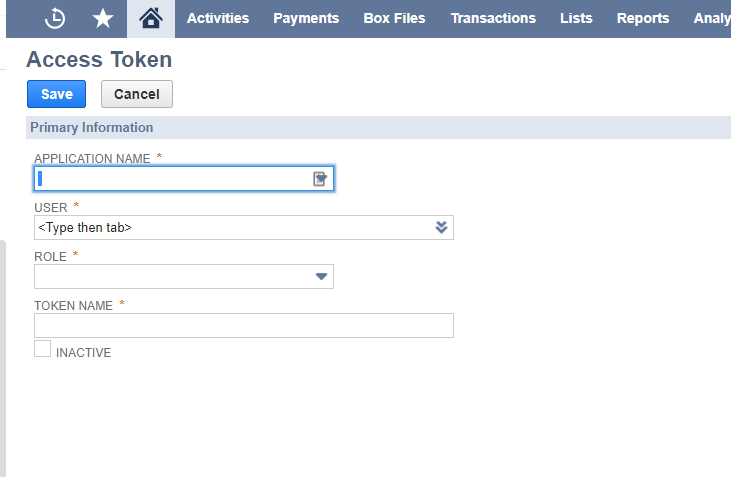
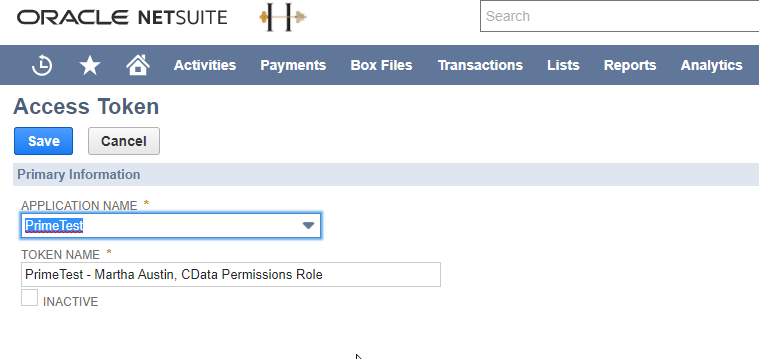
Major NS re-write

diff --git a/Datasources/additionalinfo/NetsuiteCreds.md b/Datasources/additionalinfo/NetsuiteCreds.md
@@ -9,40 +9,85 @@
 
 * **Account ID**
 * **Role ID**
+* **Application ID**
 * **Authorization Tokens**
 
 
-1. In NetSuite, log in as an administrator role and navigate to **Setup&rarr;Company&rarr;Company Information**. Save the Account ID to a .txt or other easy-to-find document.
+1. Sign onto NetSuite using a Administrator login.
+2. Navigate to **Setup&rarr;Company&rarr;Company Information**. 
+   1. Find the `Account ID` and copy/paste to a .txt or other easy-to-find document.
 
 ![account id](../../images/NetsuiteAccountId.png)
 
 2. Navigate to **Setup&rarr;Company&rarr;Enable Features&rarr;SuiteCloud&rarr;Manage Authentication**.
-3. Make sure Token-Based Authentication and TBA: Authorization Flow are checked and save changes.
+   1. Verify `Token-Based Authentication` and `TBA: Authorization Flow` are checked.
+   2. Save.
 ![Manage Authentication](../../images/NetsuiteManageAuthentication.png)
 
-4. Navigate to **Setup&rarr;Integration&rarr;Manage Integrations**.
-5. Create a new integration and select Token-Based Authentication. When the integration is created, the Consumer Key and Consumer Secret displayed will map directly to the OAuthClientId and OAuthClientSecret connection properties in RJWarehouse. Save the Application ID and the keys to the document where you saved the Account ID.
+3. Navigate to **Setup&rarr;Integration&rarr;Manage Integrations**.
+   1. Click New.
+   2. Name
+      1. Suggested: `RJ App ID` or something similar.
+   3. Concurrency Limit
+      1. Based on how many concurrent connections instance can maintain.
+      2. Default for Relational Junction is 1.
+      3. Please contact [support@sesamesoftware.com](support@sesamesoftware.com) if attempting to set-up a multi-user job which may affect concurrence.
+   4. Verify that `Token-Based Authentication` is checked.
+   5. Checking `User Credentials` is optional.
+   6. Un-check everything else.
+   7. Save.
+   8. On the next screen, the `Application ID`, `Consumer Key` and `Consumer Secret` will be displayed.
+      1. The `Consumer Key` and `Consumer Secret` map directly to the `OAuthClientId` and `OAuthClientSecret` connection properties in RJWarehouse. 
+   9. Save the `Application ID` and the keys to the document where you saved the `Account ID`.
 
 ![Manage Integrations](../../images/NetsuiteManageIntegrations.png)
 
-6. Create a token role by navigating to **Setup&rarr;User/Roles&rarr;Manage Roles** and either create a new role for RJWarehouse to use or edit an existing role with the required configuration and permissions
-   1. See [Role Creation, Modification and Setting Permissions](../../images/netsuitepermissions.md) for more information on the requirements for roles and permissions.
-   2. Add the Role ID to your document.
-7. Add the role to a user under **Lists&rarr;Employees&rarr;Employees**. Select to edit an employee and add the new token role under **Access &rarr; Roles**.
-   ![Manage Roles](../../images/NetsuiteManageRoles.png)
-8. Navigate to **Setup&rarr;User/Roles&rarr;Access Tokens** and create a new access token. Select the application name as the integration that was created earlier, and the same user and role that were updated in the previous steps.
-9.  After creating the access token, a Token Id and Token Secret will be displayed. These map directly to the OAuthAccessToken and OAuthAccessTokenSecret. Save these to the document.
+4. Navigate to **Setup&rarr;User/Roles&rarr;Manage Roles**. 
+   1. Create a new role or edit an existing role with the required configuration and permissions or RJWarehouse to use.
+      1. See [Role Creation, Modification and Setting Permissions](../../images/netsuitepermissions.md) for more information on the requirements for roles and permissions.
+   2. Locate the internal ID of the Role from the Manage Roles List display or the role itself.
+   3. Add the Role ID to your document.
+![Manage Roles](../../images/NetsuiteManageRoles.png)
+
+5. Navigate to **Setup&rarr;User/Roles&rarr;Manage Users**.
+   1. Locate a User Login which the role you edited/created in Step 4 can be assigned to.
+      1. This must be a login that can be accessed during this process.
+   2. Click the Name of the user whom you are assigning the role.
+![Manage users](../../images/NetsuiteManageusers.png)   
+
+   3. On the User screen, click Edit.
+   4. On the User navigation bar click Access.
+   5. Click the dropdown and select the role you edited/created in Step 4.
+![Manage Access](../../images/Netsuiteuseraccess.png)  
+
+   6. Click Add.
+   7. Click Save.
+   
+1. Log into the User whom you assigned the role you edited/created in Step 4.
+   1. Verify that you are logged into that role.
+      1. Check upper right hand corner, role will be listed.
+![Role](../../images/Netsuiterolefp.png)
+   2. Scroll to the bottom of the home screen and click `Manage Access Tokens` in your Settings Portlet.
+![Role](../../images/Netsuitesettingsportlet.png)
+   3. Click `New My Access Token`
+   4. In the Application Name dropdown, select the Application ID created in Step 3.
+   5. Save.
+   6. On the next screen, the `Token Id` and `Token Secret` will be displayed.
+      1. The `Token Id` and `Token Secret` map directly to the `OAuthAccessToken` and `OAuthAccessTokenSecret` connection properties in RJWarehouse. 
+   9. Save the keys to your document.
 
 ![AccessTokens](../../images/NetsuiteAccessTokens.png)
 
-You should now have the following information:
+You should now have the following information in your txt document:
 
-**AccountId** : specifying the account to connect to.
-**RoleId** : specifying the role/permissions to use.
-**OAuthClientId** : the Consumer Key displayed when the application was created.
-**OAuthClientSecret** : the Consumer Secret displayed when the application was created.
-**OAuthAccessToken** : the Token Id when the access token was created.
-**OAuthAccessTokenSecret** : the Token Secret when the access token was created.
+**AccountId** : Specifying the account to connect to.
+**RoleId** : Specifying the role, and its permissions, to use.
+**OAuthClientId** : The Consumer Key displayed when the Application ID was created.
+**OAuthClientSecret** : The Consumer Secret displayed when the Application ID was created.
+**OAuthAccessToken** : The Token Id when the Role Access Token was created.
+**OAuthAccessTokenSecret** : The Token Secret when the Role Access Token was created.
+
+It is recommended to preserve this txt file in a safe location.
 
 ---
 
